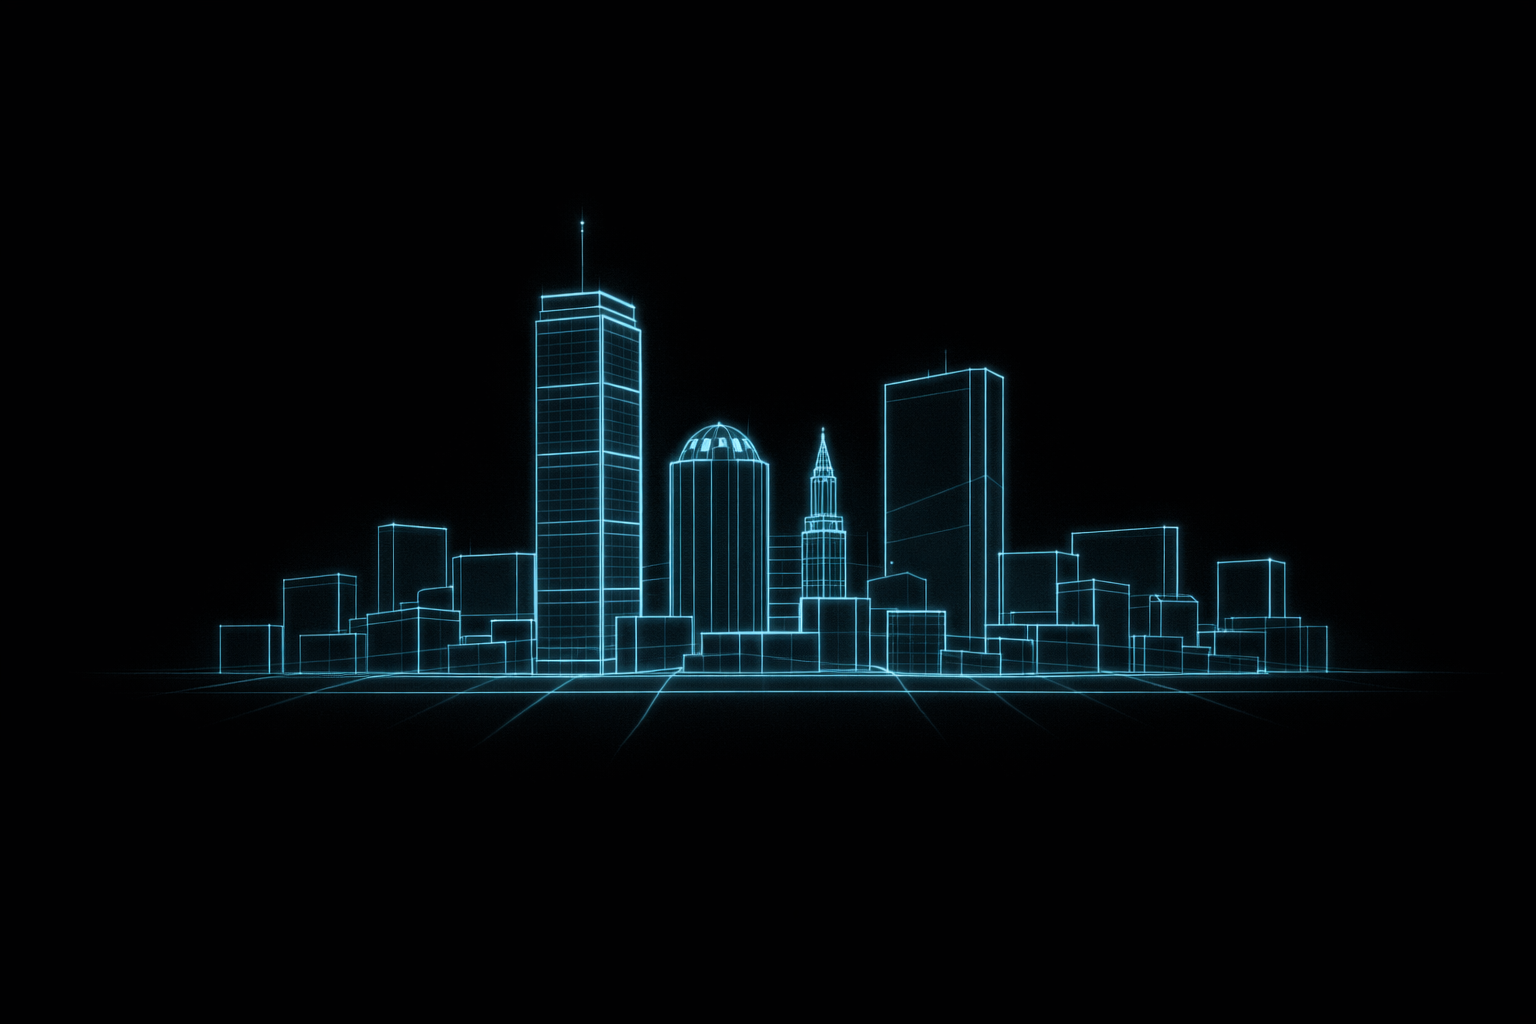
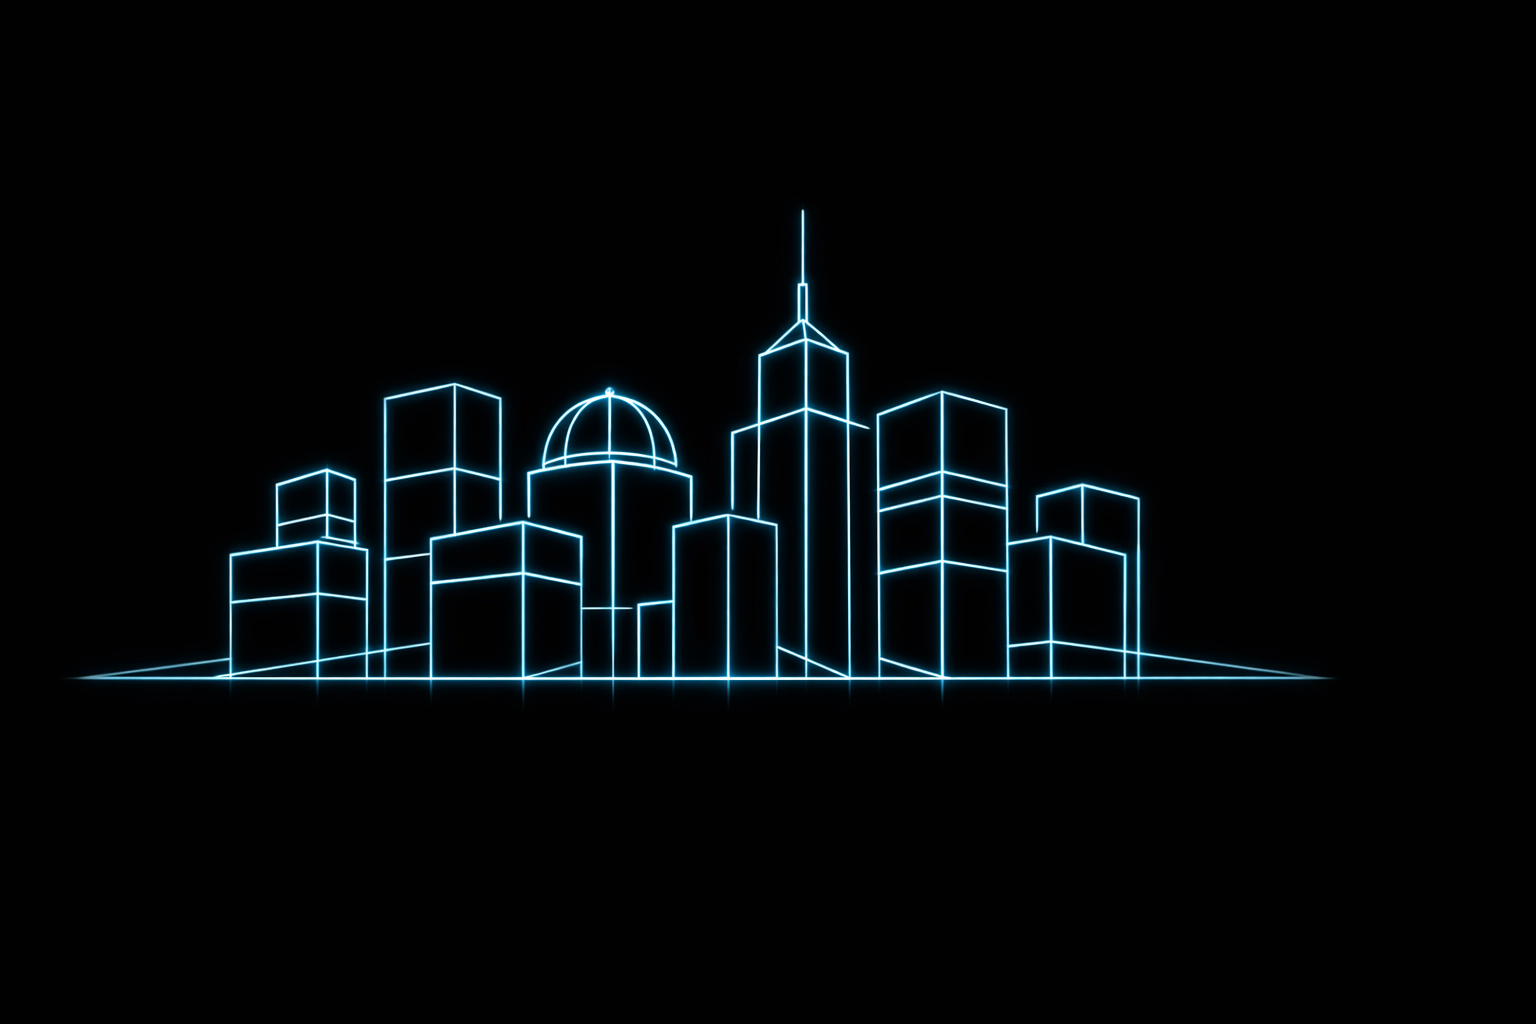
Refine image generation prompt, update Boston.gov header
- Update CLAUDE.md prompt template for balanced simplicity
- Add guidance for "too detailed" and "too simple" results
- Replace Boston.gov header with cleaner wireframe skyline

Changed region(s): [[0.0625, 0.2188, 0.875, 0.6875]]

diff --git a/CLAUDE.md b/CLAUDE.md
@@ -67,24 +67,34 @@ Each case study follows the pattern: "I didn't [conventional framing]. I designe
 
 ## Image Generation — Vector Arcade Style
 
-Use this prompt template with ChatGPT (GPT-4 + DALL-E) to generate images in the Strangelund visual style:
+Use this prompt template with ChatGPT (GPT-4 + DALL-E) to generate images in the Strangelund visual style.
+
+**Goal: Simple but recognizable.** Think 1983 arcade aesthetics—wireframe with visible structure, but not dense polygon meshes. The subject should read clearly but feel sparse and geometric. Aim for the complexity of a Battlezone tank or Star Wars TIE fighter: identifiable shapes with some internal wireframe lines, but not photorealistic detail.
 
 ```
-Vector graphics illustration of [SUBJECT] in the style of 1980s arcade games like Tempest, Battlezone, and Star Wars. Wireframe line art only, no fills, no textures. Glowing phosphor [COLOR] lines on pure black background. [SUBJECT] rendered as geometric structures: [SPECIFIC GEOMETRY DESCRIPTION]. Not realistic—abstract, diagrammatic, like data visualized. Extremely minimal detail—only essential structural lines, no decorative elements. Thin consistent stroke weight throughout. Slight CRT phosphor bloom effect on the lines. Deep perspective with elements receding into darkness. The aesthetic of an oscilloscope or vector display monitor. Very sparse composition, negative space as dominant feature. Technical, cold, systematic, strange. Less is more—err on the side of too simple.
+Vector graphics illustration of [SUBJECT] in the style of 1983 arcade vector games like Battlezone and Star Wars. Simple wireframe rendering—visible geometric structure but not dense polygon meshes. Glowing phosphor [COLOR] lines on pure black background. [SUBJECT] as low-polygon wireframe: [SPECIFIC GEOMETRY DESCRIPTION]. Show the basic 3D structure with edge lines and a few internal divisions, but avoid dense grid patterns or excessive detail. The look of early 3D graphics—clearly geometric, clearly digital. Generous empty space around the subject. CRT phosphor bloom effect on the lines. Technical, stark, and strange.
 
-No realistic rendering, no photography, no filled shapes, no gradients, no pixel art, no raster graphics, no color except [COLOR], no backgrounds, no textures, no organic curves, no hand-drawn style, no cartoon style, no dense wireframes, no busy compositions, no excessive detail.
+Keep it simple: outline the form, show basic internal structure, stop there. No surface texture, no dense meshes, no realistic detail.
+
+No realistic rendering, no photography, no filled shapes, no gradients, no pixel art, no raster graphics, no color except [COLOR], no backgrounds, no textures, no organic curves, no hand-drawn style, no cartoon style, no dense wireframe grids, no busy compositions.
 
 Style references:
-Atari Tempest arcade, Atari Battlezone arcade, Star Wars 1983 arcade trench run, Vectrex console graphics, vector display monitor, oscilloscope art
+Atari Battlezone (1980) — simple 3D tanks and obstacles
+Atari Star Wars (1983) — TIE fighters, Death Star trench
+Vectrex console graphics — clean glowing wireframes
 ```
 
 **Variables:**
 - `[SUBJECT]`: What you're depicting (trees, buildings, mountains, etc.)
-- `[COLOR]`: Line color (light blue, green, amber)
-- `[SPECIFIC GEOMETRY DESCRIPTION]`: How the subject becomes wireframe
+- `[COLOR]`: Line color (light blue, green, amber, magenta, etc.)
+- `[SPECIFIC GEOMETRY DESCRIPTION]`: How the subject becomes wireframe (basic shapes, simple divisions)
 - `[OFFSET]`: Position of main subject — `left`, `right`, or `center`
 
-**Refinement prompt:** `[COMPOSITION]. Position the main subject on the [OFFSET] side of the frame. Fade to pure black on the opposite side and at the bottom edge—keep those areas empty for text. Reduce glow bloom by ~30% and sharpen the line core. Increase depth haze on background elements. Show tiny bright node points at key wireframe intersections. Make it [WIDTH] wide at [RATIO] aspect ratio. Use [COLOR].`
+**Refinement prompt:** `[COMPOSITION]. Position the main subject on the [OFFSET] side of the frame. Fade to pure black on the opposite side and at the bottom edge—keep those areas empty for text. Keep the wireframe simple—basic structure, not dense mesh. Make it [WIDTH] wide at [RATIO] aspect ratio. Use [COLOR].`
+
+**If the result is too detailed:** "Simplify the wireframe. Remove the dense grid pattern—keep only the major structural lines that define the shape. Think Battlezone, not modern 3D software."
+
+**If the result is too simple:** "Add some internal wireframe structure to show 3D form—a few horizontal or vertical divisions. It should look like a low-polygon 3D model, not just an outline."
 
 ## Voice and Tone
 
